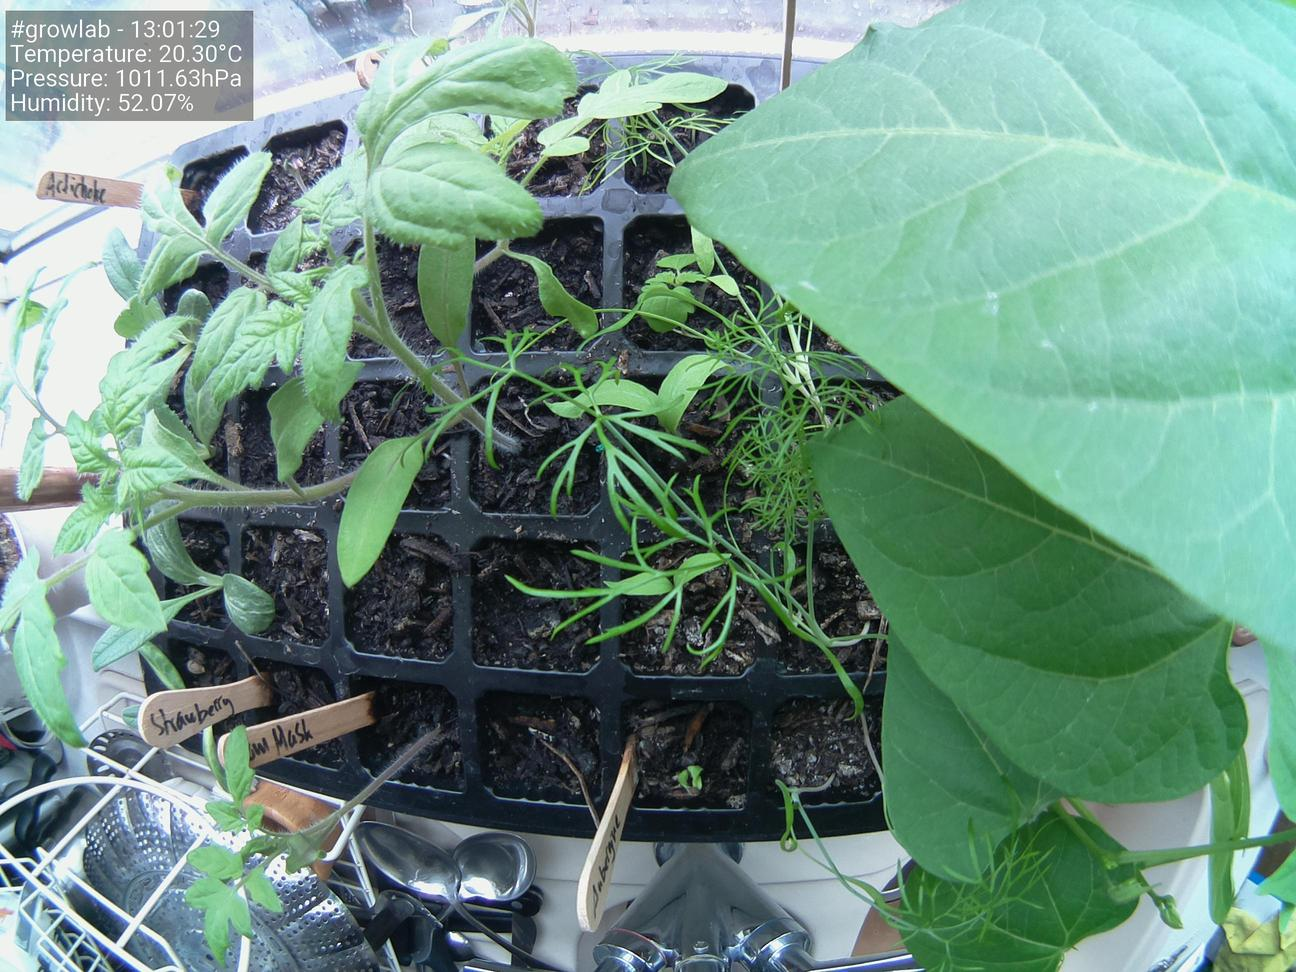
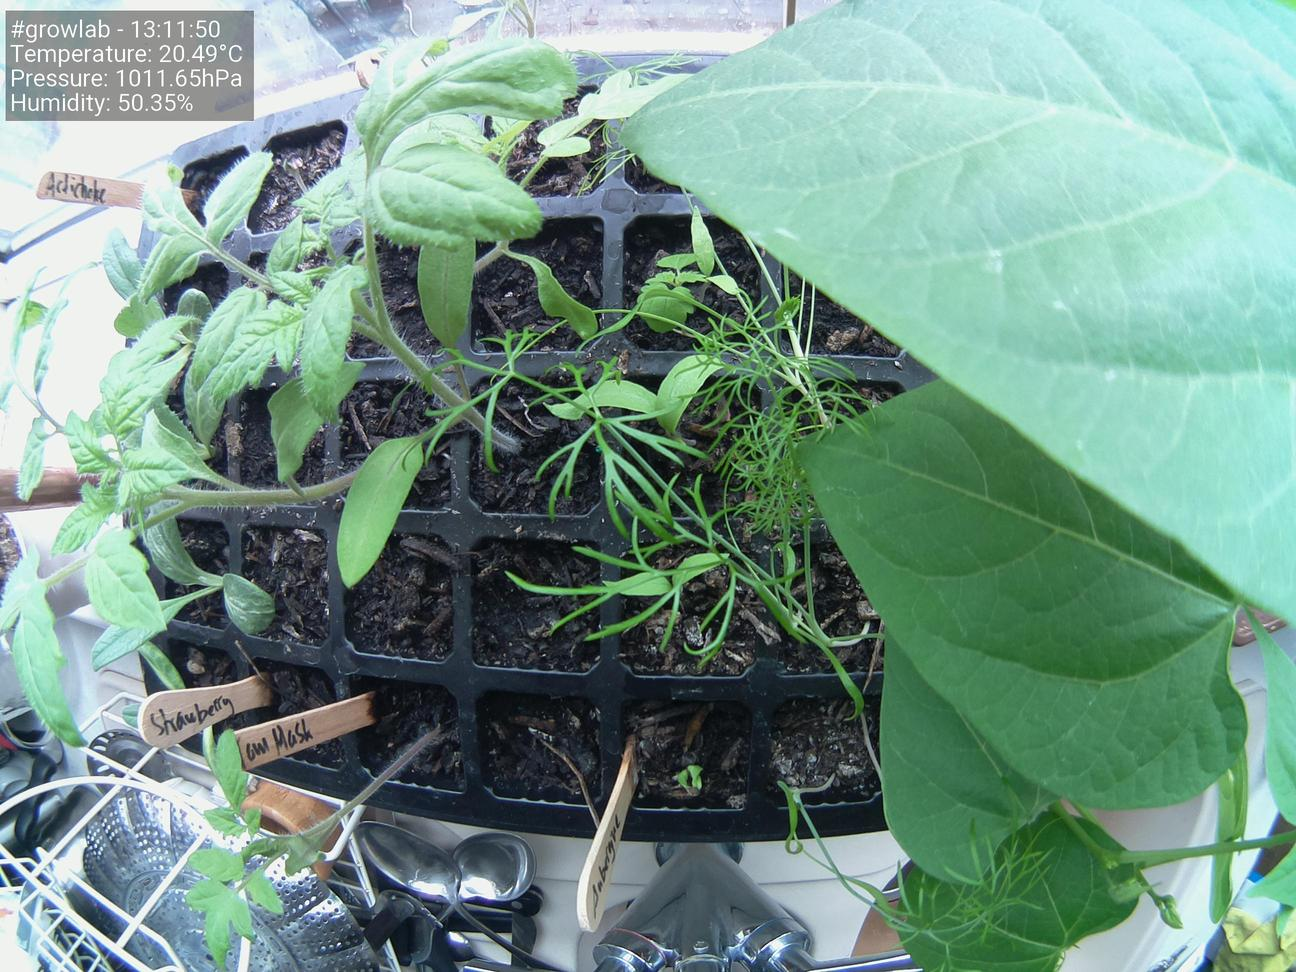
Update images at Thu 29 Apr 13:12:02 BST 2021

diff --git a/docs/index.html b/docs/index.html
@@ -38,19 +38,19 @@
                     <tbody>
                         <tr>
                             <td>Time</td>
-                            <td>13:01:29</td>
+                            <td>13:11:50</td>
                         </tr>
                         <tr>
                             <td>Temperature</td>
-                            <td>20.30°C</td>
+                            <td>20.49°C</td>
                         </tr>
                         <tr>
                             <td>Humidity</td>
-                            <td>52.07%</td>
+                            <td>50.35%</td>
                         </tr>
                         <tr>
                             <td>Pressure</td>
-                            <td>1011.63hPa</td>
+                            <td>1011.65hPa</td>
                         </tr>
                     </tbody>
                 </table>
@@ -58,7 +58,7 @@
 
                 <h5>Latest image</h5>
 		<div style="width: 85%;">
-	                <img class="figure-img img-fluid rounded" src="./preview.jpg?uid=1619697700.1230812">
+	                <img class="figure-img img-fluid rounded" src="./preview.jpg?uid=1619698321.6167066">
 		</div>
             </div>
         </div>
